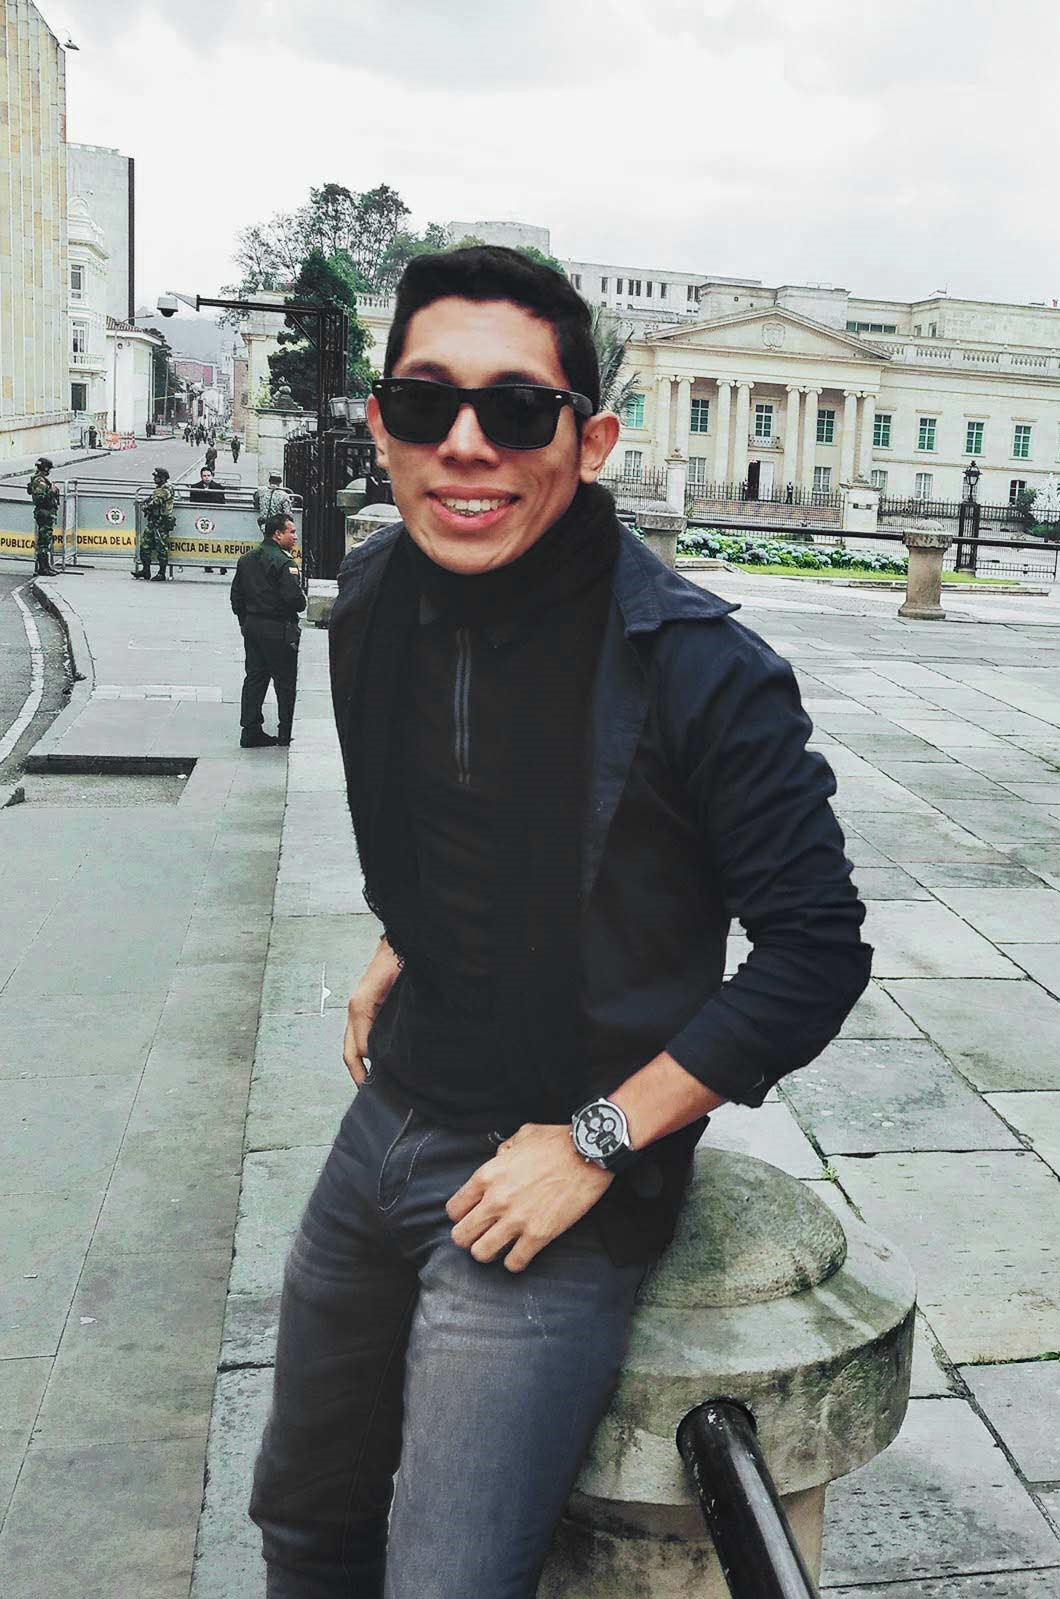
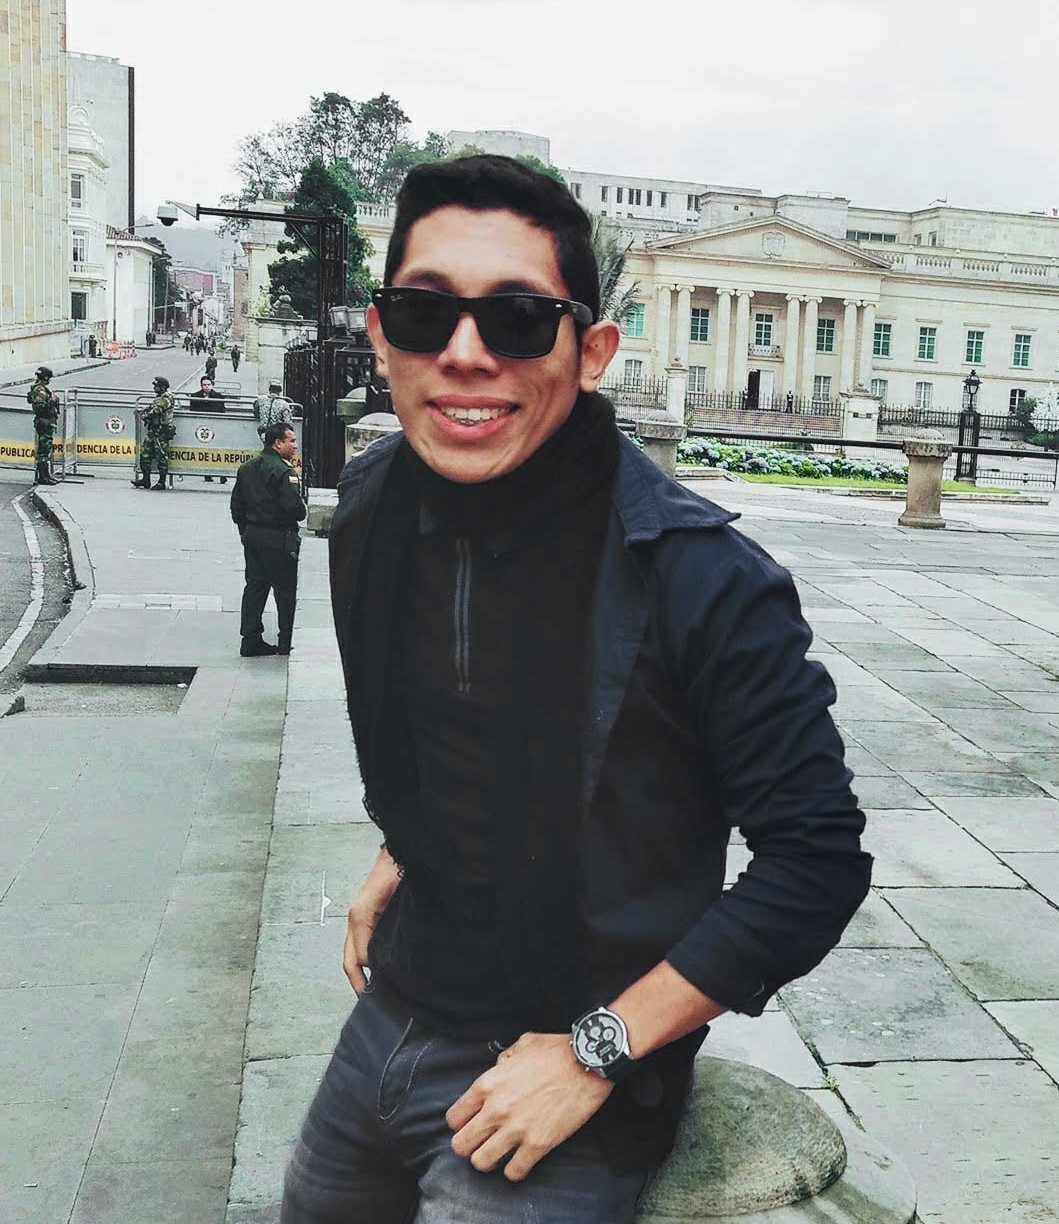
Se agregaron nuevas fotos

diff --git a/src/pages/About.jsx b/src/pages/About.jsx
@@ -1,7 +1,7 @@
 import React from 'react';
 import styled from 'styled-components';
 
-import AboutImg from '../assets/images/about-page-img.png';
+import AboutImg from '../assets/images/About-3.jpg';
 import AboutInfoItem from '../components/AboutInfoItem';
 import ContactBanner from '../components/ContactBanner';
 import { Button } from '../components/Button';

diff --git a/src/components/AboutSection.jsx b/src/components/AboutSection.jsx
@@ -2,7 +2,7 @@ import React from 'react';
 import styled from 'styled-components';
 import { Button } from './Button';
 import { PText } from './PText';
-import AboutImg from '../assets/images/about-sec-img.png';
+import AboutImg from '../assets/images/AboutSection.jpg';
 import SectionTitle from './SectionTitle';
 
 const AboutSectionStyles = styled.div`
